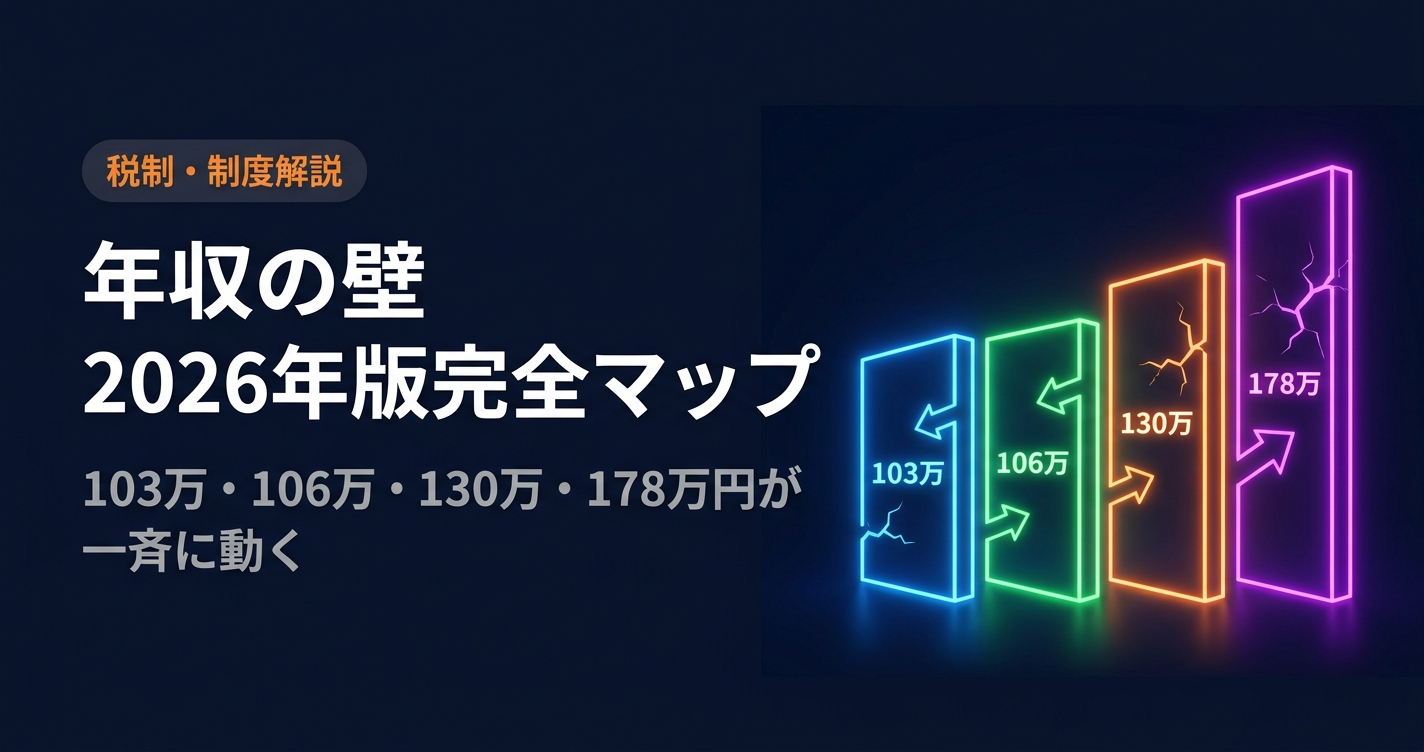
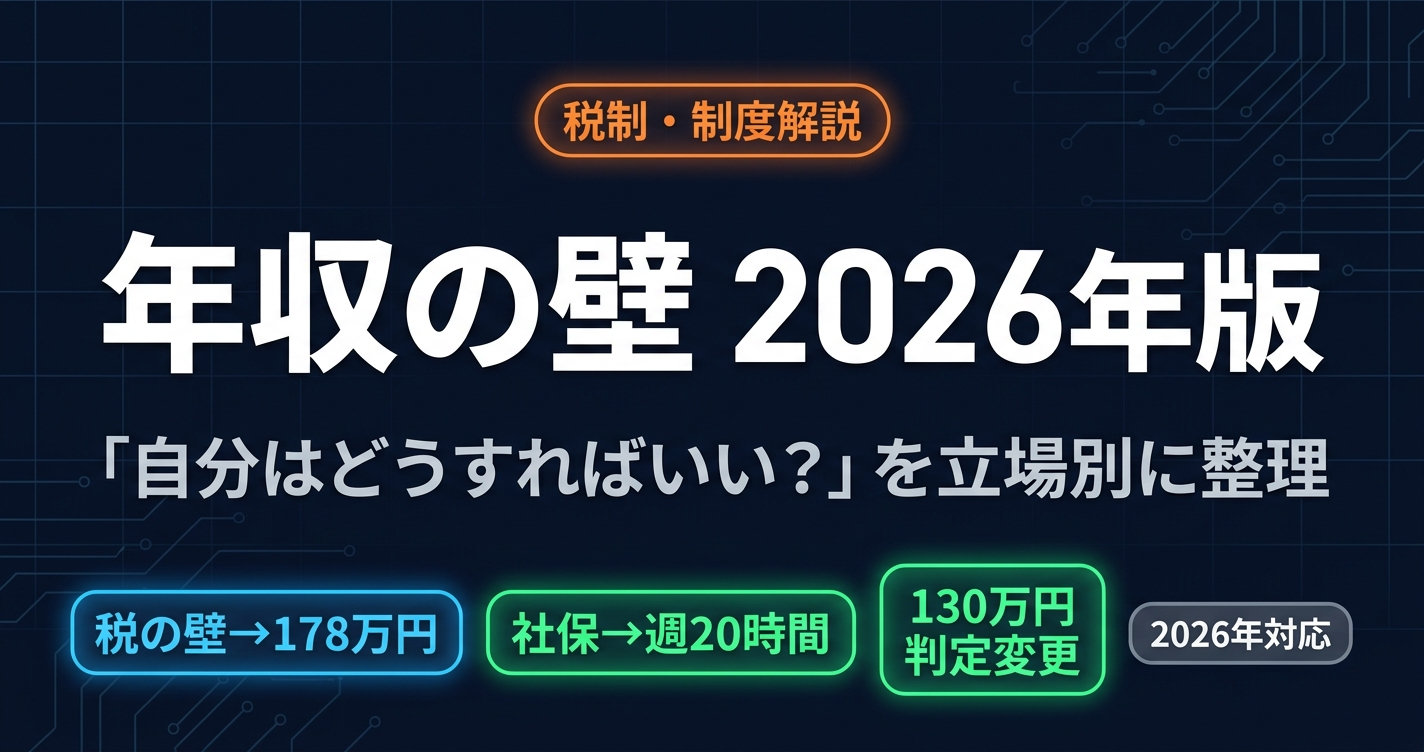
Improve income-wall-2026 article structure and thumbnail
- Update title to reader-centric framing
- Add 30-second summary section at top
- Unify 178man wall description as expansion (not new)
- Simplify 106man phased abolition details
- Fix fact: 130man judgment change date 2025/10 (not 2026/4)
- Regenerate thumbnail matching new title

diff --git a/content/posts/income-wall-2026.md b/content/posts/income-wall-2026.md
@@ -1,5 +1,5 @@
 ---
-title: "年収の壁2026年版・完全マップ：103万・106万・130万・178万円が一斉に動く"
+title: "年収の壁2026年版：「自分はどうすればいい？」を立場別に整理する"
 date: 2026-04-17T19:00:00+09:00
 draft: false
 categories: ["税制・制度解説"]
@@ -21,6 +21,16 @@ cover:
 
 ---
 
+## 30秒サマリー：変更の要点
+
+- **税の壁**：103万円 → **178万円**に拡大（2026年1月〜）
+- **社保の壁（106万円）**：月収要件が撤廃。**週20時間**が新たな加入ライン（2026年10月〜予定）
+- **社保の壁（130万円）**：金額ラインは変わらないが、**判定方法が変更**（労働条件通知書等の年収ベース）
+- パート・主夫・主婦：まず「週20時間を超えるか」を確認する
+- 学生：所得税の壁は178万円まで拡大したが、親の健保の被扶養者ラインは130万円のまま
+
+---
+
 {{< figure src="/images/income-wall-v1-small.png" alt="年収の壁2026年版・税の壁と社会保険の壁の変化マップ" >}}
 
 ## 「壁が4つあってよくわからない」を整理する
@@ -29,7 +39,7 @@ cover:
 
 2026年は年収の壁に関するルール変更が複数同時に走っています。ニュースで断片的に見かけるたびに「結局、自分はどうすればいい？」と困惑している方も多いのではないでしょうか。
 
-この記事では、4つの壁を**税の壁**と**社会保険の壁**に分けて整理し、変更内容と施行日を表にまとめます。最後に立場別の影響もまとめますので、ご自身に関係する部分だけを確認していただけます。
+この記事では、4つの壁を**税の壁**と**社会保険の壁**に分けて整理し、変更内容と施行日を表にまとめます。実質的には「税の壁が上がった」「週20時間が新たな社保の基準になる」という2つのシンプルなルールに整理できます。最後に立場別の影響もまとめますので、ご自身に関係する部分だけを確認していただけます。
 
 ---
 
@@ -55,7 +65,7 @@ cover:
 | **103万円の壁** | 所得税（税の壁） | 年収103万円超で所得税が発生 | 年収178万円超まで非課税枠が拡大 | 2025年分所得から適用（給与所得者は2026年1月以降の源泉徴収から反映） |
 | **106万円の壁** | 社会保険（社保の壁） | 週20時間・月収8.8万円・従業員51人以上などの要件を満たすと社会保険加入 | 月収要件を撤廃。週20時間要件のみ残存（従業員数要件は2027年〜2035年にかけて段階的撤廃） | 2026年10月をめどに撤廃予定（施行日は政令で確定） |
 | **130万円の壁** | 社会保険（社保の壁） | 年収130万円超で被扶養者から外れ、本人が社会保険加入 | 判定方法を変更。「見込み年収」ではなく**労働条件通知書等に基づく年収見込み**を基準にする | 2025年10月1日施行済み（厚労省通知） |
-| **178万円の壁** | 所得税（税の壁） | 存在しなかった（新設） | 103万円の壁拡大により、178万円超が新たな所得税発生ラインに | 2026年1月 |
+| **178万円の壁** | 所得税（税の壁） | 103万円超で所得税が発生 | 103万円の壁が178万円に拡大 | 2026年1月 |
 
 ### 各変更の補足説明
 
@@ -65,7 +75,7 @@ cover:
 
 **106万円の壁の実質撤廃（社会保険）**
 
-これまで「月収8.8万円以上かつ従業員51人以上の職場」という条件がありましたが、2026年10月をめどに月収（8.8万円）の要件がなくなる見込みです（年金制度改革関連法は2025年6月に成立済み。施行日は政令で確定）。従業員数の要件については2027年10月（36人以上）を皮切りに、2029年10月（21人以上）、2032年10月（11人以上）、2035年10月（完全撤廃）と段階的に撤廃される予定です。2026年10月以降は、週20時間以上働いていれば月収にかかわらず社会保険の加入対象となる見込みです（従業員数要件については経過措置あり）。
+これまで「月収8.8万円以上かつ従業員51人以上の職場」という条件がありましたが、2026年10月以降に月収（8.8万円）の要件が撤廃される見込みです（年金制度改革関連法は2025年6月に成立済み。施行日は政令で確定）。従業員数の要件についても2035年までに段階的に撤廃される予定です。2026年10月以降は、週20時間以上働いていれば月収にかかわらず社会保険の加入対象となる見込みです（従業員数要件については経過措置あり）。
 
 **ポイント：130万円未満でも社保加入になるケースが増える**
 
@@ -139,7 +149,7 @@ cover:
 - **130万円以上**：親の健保の被扶養者から外れ、自分で国民健康保険に加入が必要
 - **178万円超**：所得税が発生（2026年改正後の新ライン）
 
-**2026年以降に変わるのは「103万円→178万円」の税の壁だけです。130万円という金額ライン自体は変わりませんが、判定方法（残業代の除外など）は2026年4月から変わっています。**
+**2026年以降に変わるのは「103万円→178万円」の税の壁だけです。130万円という金額ライン自体は変わりませんが、判定方法（残業代の除外など）は2025年10月から変わっています。**
 
 ---
 
